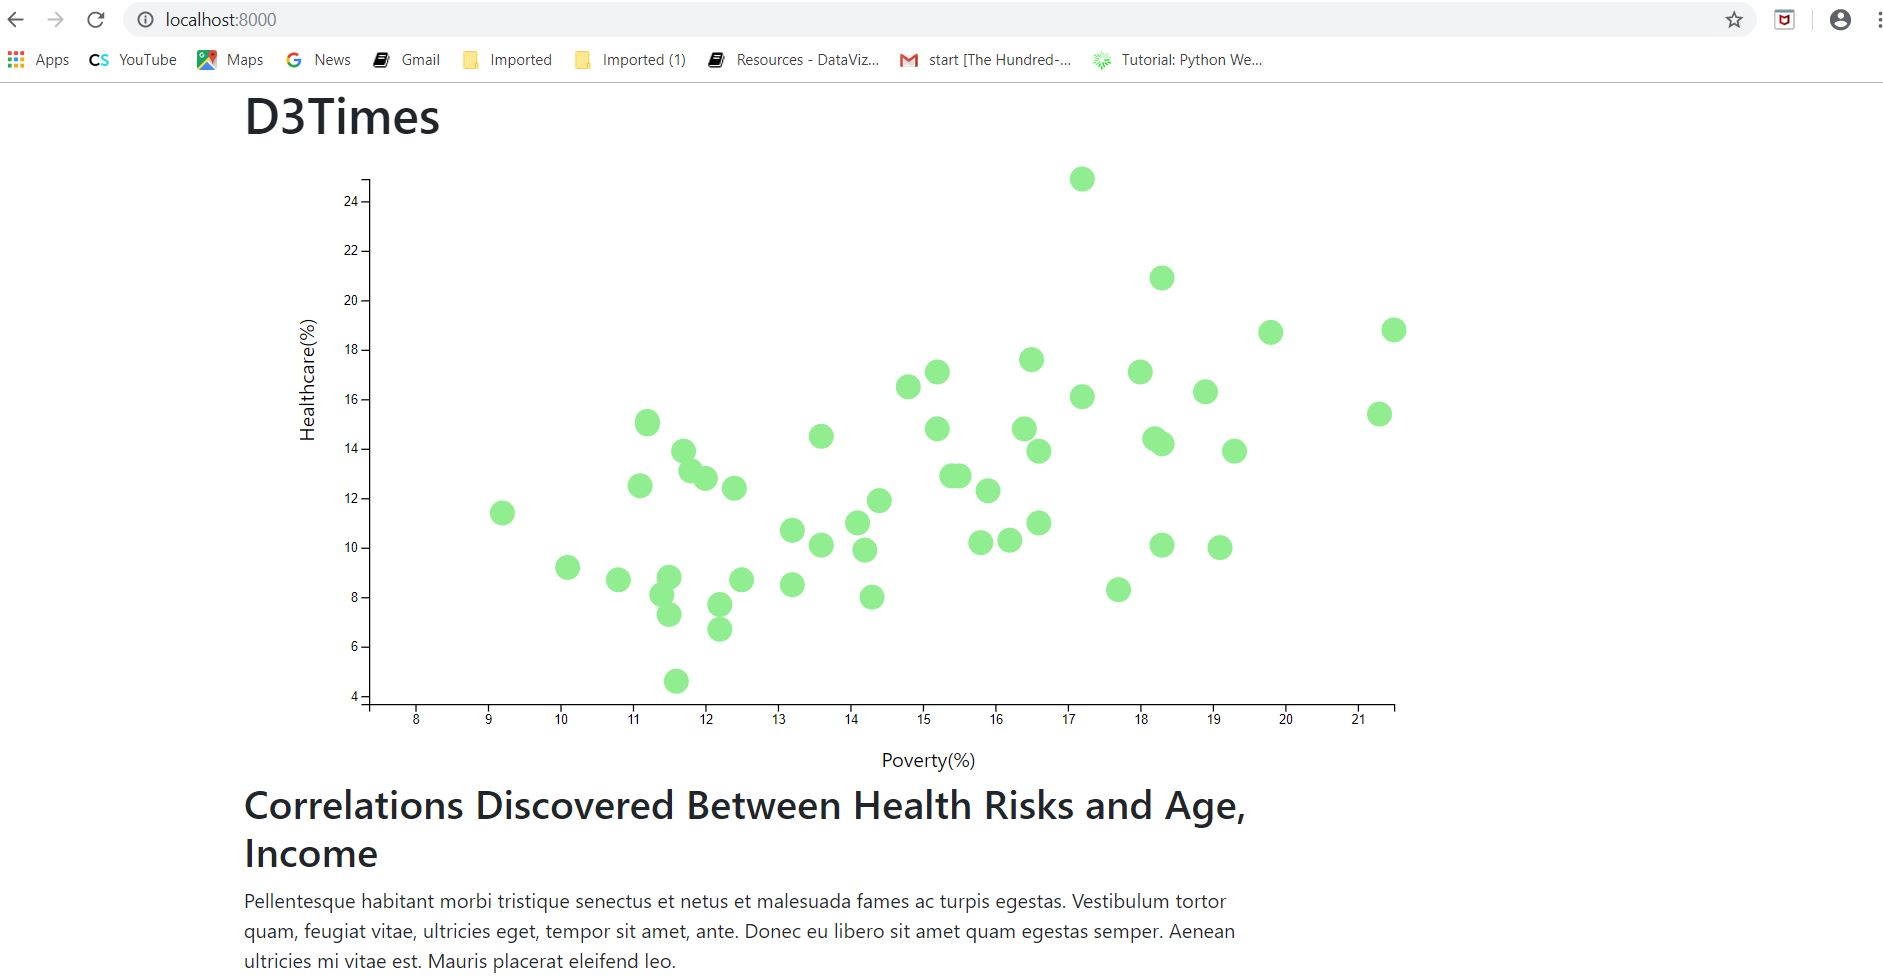
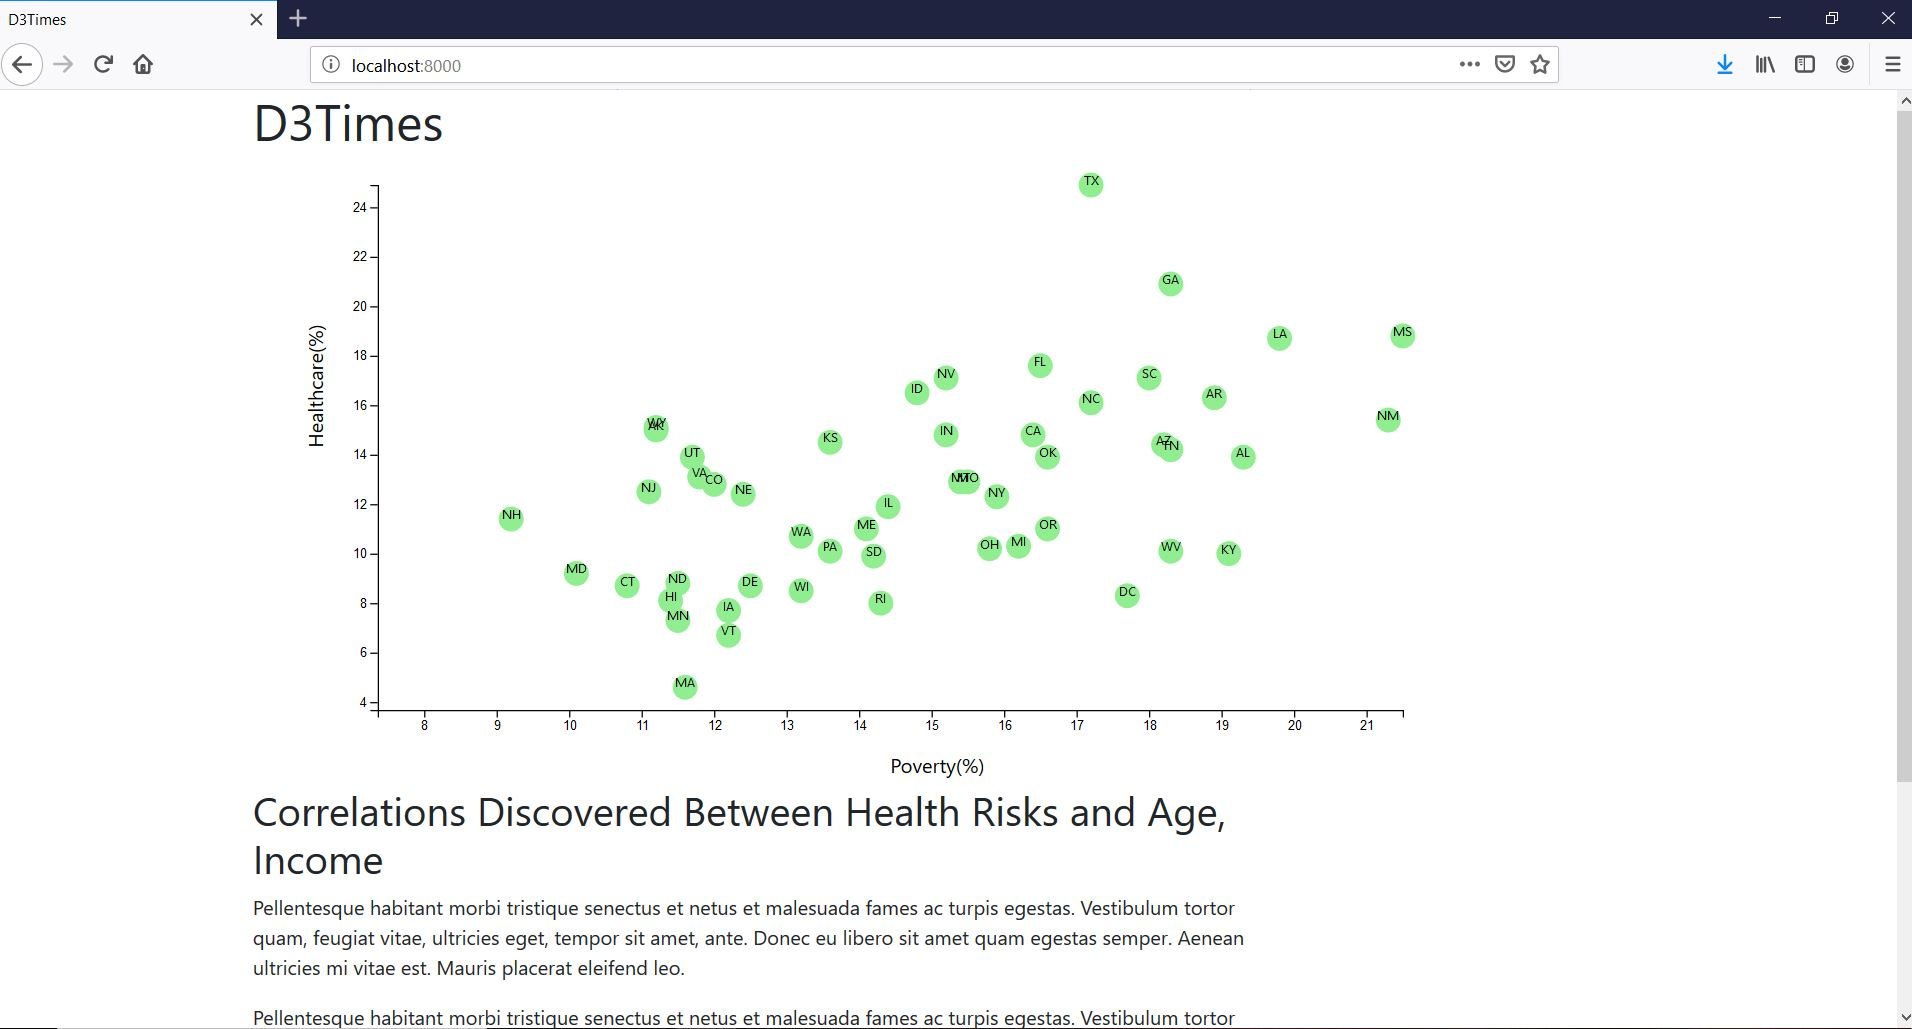
Latest Update

diff --git a/assets/js/app.js b/assets/js/app.js
@@ -60,9 +60,18 @@ var circlesGroup = chartGroup.selectAll("circle")
 .attr("cy", d => yLinearScale(d.healthcare))
 .attr("r", "10")
 .attr("fill", "lightgreen")
-//.html("circle", function(data) { return `${data.abbr}`; })
-//.text("fill", "#69b3a2")
 .attr("opacity", "1");
+
+chartGroup.selectAll(".dot")
+.data(data)
+.enter()
+.append("text")
+.text(function(data) { return data.abbr; })
+.attr("x", d => xLinearScale(d.poverty))
+.attr("y", d => yLinearScale(d.healthcare))
+.attr("font-size", "10px")
+.attr("fill", "black")
+.style("text-anchor", "middle");
 
 var toolTip = d3.tip()
   .attr("class", "tooltip")
